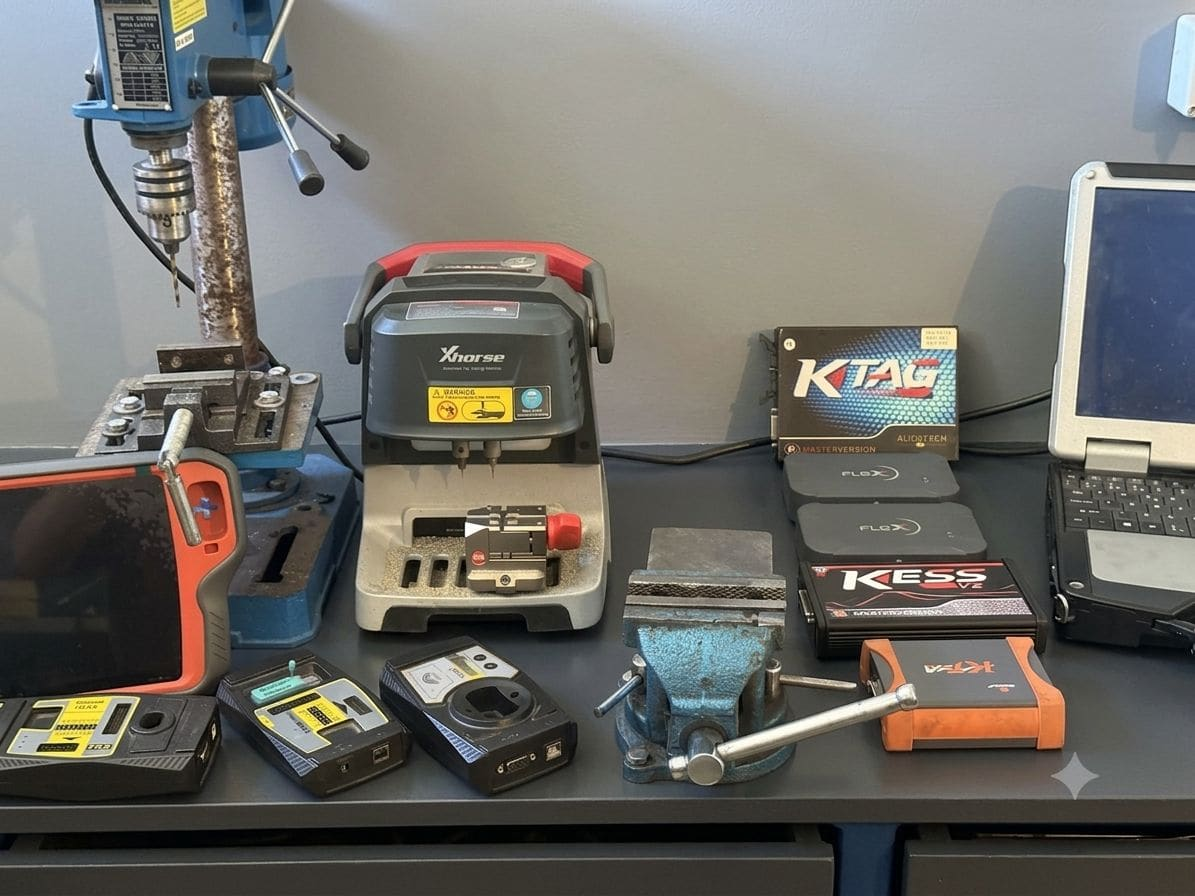
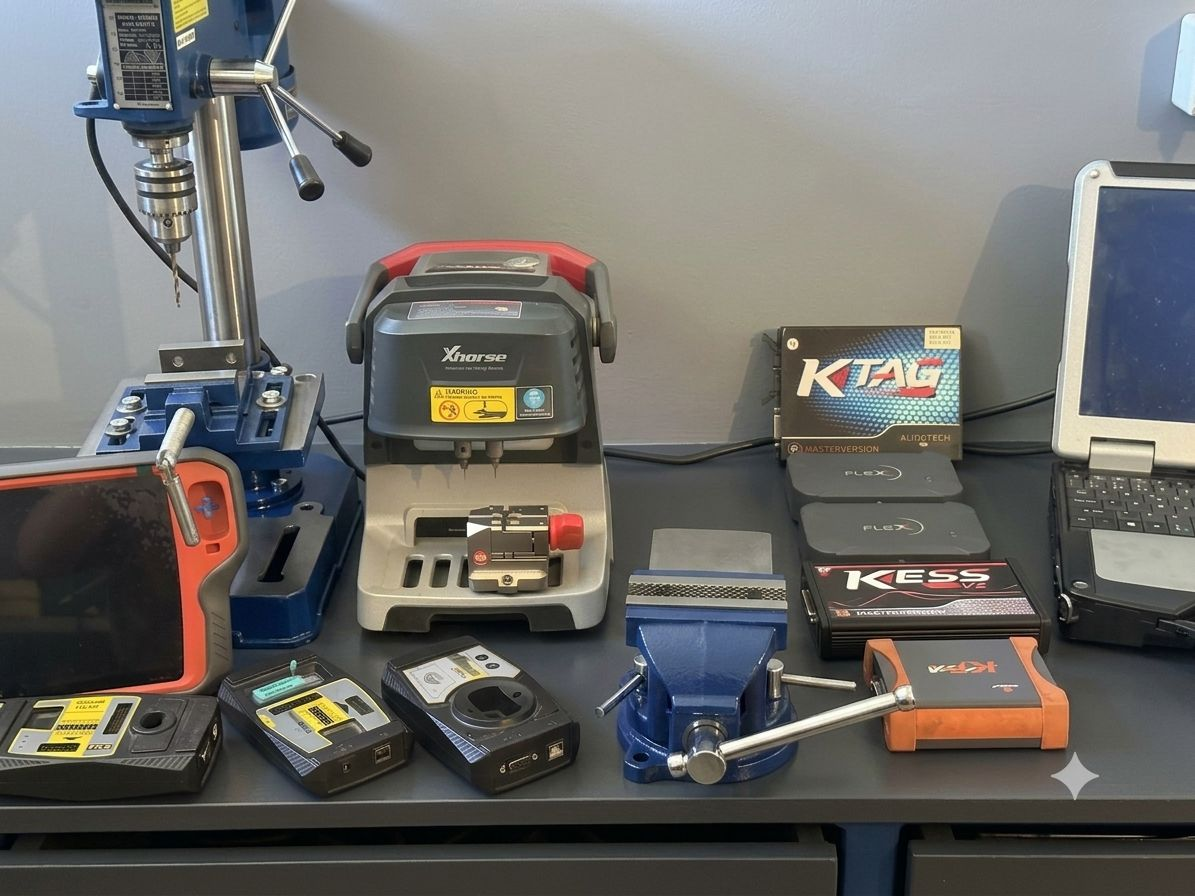
Neue Hero-/ScrollFilm-Fotos, Gallery aufgeraeumt
- garaza-vrata.jpg und kljucevi-tuning.jpg durch aktuelle Werkstattfotos ersetzt
- BMW F30 Tuer-, Reservoar- und Hauba-Bilder aus der Galerie entfernt
- Galerie-Kacheln zeigen nur noch den Modellnamen, kompakterer Textbereich

diff --git a/components/Gallery.tsx b/components/Gallery.tsx
@@ -47,21 +47,9 @@ const shots: Shot[] = [
     tag: "Elektrika",
   },
   {
-    src: "/photos/bmw-f30-brava-vrata.jpg",
-    title: "BMW 3 (F30)",
-    desc: "Zamjena brave vrata",
-    tag: "Elektrika",
-  },
-  {
     src: "/photos/bmw-f30-podizac-stakla.jpg",
     title: "BMW 3 (F30)",
     desc: "Zamjena podizača stakla",
-    tag: "Elektrika",
-  },
-  {
-    src: "/photos/bmw-f30-poklopac-rezervoara.jpg",
-    title: "BMW 3 (F30)",
-    desc: "Popravak aktuatora poklopca rezervoara",
     tag: "Elektrika",
   },
   {
@@ -172,12 +160,6 @@ const shots: Shot[] = [
     desc: "Mercedes E-klasa, AMG i BMW E30 M3",
     tag: "Radionica",
   },
-  {
-    src: "/photos/bmw-hauba-art.jpg",
-    title: "Detalj iz radionice",
-    desc: "Ručno oslikana BMW hauba",
-    tag: "Radionica",
-  },
 ];
 
 function Tile({ shot, onOpen }: { shot: Shot; onOpen: () => void }) {
@@ -196,12 +178,8 @@ function Tile({ shot, onOpen }: { shot: Shot; onOpen: () => void }) {
           className="photo-cine object-cover transition-transform duration-700 group-hover:scale-105"
         />
       </div>
-      <div className="flex flex-1 flex-col gap-1 p-4">
-        <span className="text-xs font-medium uppercase tracking-widest text-fg-faint">
-          {shot.tag}
-        </span>
+      <div className="flex flex-col gap-1 p-3">
         <span className="text-sm font-semibold text-fg">{shot.title}</span>
-        <span className="text-sm leading-relaxed text-fg-soft">{shot.desc}</span>
       </div>
     </button>
   );